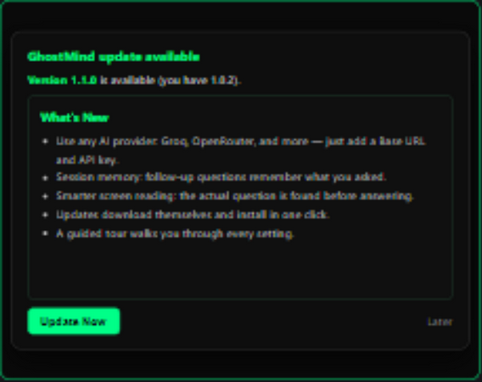
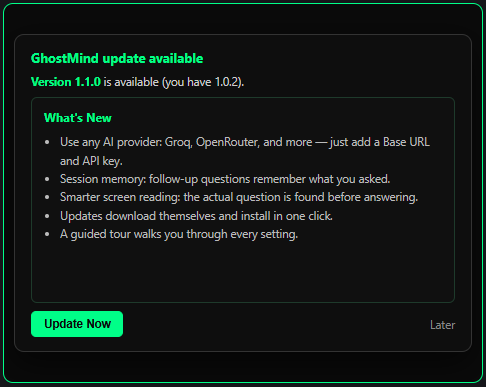
docs(readme): correct project structure tree and redraw architecture diagram in B&W

Changed region(s): [[0.0, 0.0, 1.0, 1.0], [0.0622, 0.288, 0.9025, 0.6335], [0.8714, 0.8351, 0.9336, 0.8639]]

diff --git a/README.md b/README.md
@@ -66,28 +66,26 @@ or install. Uninstalling keeps your settings and keys
 |---|---|
 | **Requirements**: Windows 10/11 (64-bit) · an API key from any OpenAI-compatible provider · internet for AI answers · ~250 MB disk space. **Nothing else** - the OCR engine ships inside the installer. | |
 
-### Guided tour
+### Guided Tour
 
-The first launch starts a **step-by-step tour** with a spotlight: each banner
-highlights one control, and only that control is clickable while the rest of
-the app dims. It covers the home screen, every settings tab (the API tab gets
-the deepest coverage), and the home-screen features - finishing with a
-**Done** button on the last step. The first run cannot be skipped, so nobody
-accidentally misses it - and it is replayed anytime from
-**Settings → About → Replay tutorial**.
+The first launch starts a **step-by-step tour** with a spotlight: each banner highlights one control, and only that control is clickable while the rest of the app dims. It covers the home screen, every settings tab (the API tab gets the deepest coverage), and the home-screen features - finishing with a **Done** button on the last step.
 
 | | |
 |---|---|
-| **Availability**: the tour starts automatically on first launch and can be replayed from Settings → About at any time. | <img src="assets/docs/screenshots/tutorial.png" width="300"> |
+| The first run cannot be skipped, so nobody accidentally misses it - and it can be replayed anytime from **Settings → About → Replay tutorial**.<br><br>**Availability**: the tour starts automatically on first launch and can be replayed from Settings → About at any time. | <img src="assets/docs/screenshots/tutorial.png" width="300"> |
+
+
 
 ### Choose your AI provider
 
-GhostMind speaks the OpenAI-compatible API, so most AI services work by
-entering three things in **Settings → API**:
-
+GhostMind speaks the OpenAI-compatible API, so most AI services work by entering three things in **Settings → API**:<br><br>
 1. **Base URL** - your provider's API address
 2. **API key** - stored securely in Windows Credential Manager, one slot per provider
-3. **Check Available Model** - verifies your credentials and lists the models your key can use; pick one or type any model ID
+3. **Check Available Model** - verifies your credentials and lists the models your key can use; pick one or type any model ID.
+
+<p align="center">
+  <img src="assets/docs/screenshots/settings-api-1.jpg" width="482" alt="Setting API Tab"> 
+</p>
 
 | Provider | Base URL | Notes |
 |---|---|---|
@@ -103,7 +101,9 @@ unreachable host, out of credit, or an unknown model - never a generic error.
 
 | | |
 |---|---|
-| ⚡ **Scan** (or `Ctrl+Shift+S`): reads the screen, isolates the actual question from page noise, and answers it.<br><br>**Ask box** (or `Ctrl+Shift+Q`): type any question and press Enter - no scanning needed.<br><br>Questions **queue up**: ask several in a row and each gets its own answer, in order.<br><br>**Session memory**: follow-ups remember what you already asked. **Clear** (`Ctrl+Shift+C`) wipes the answers and the memory; closing the app wipes everything. | <img src="assets/docs/screenshots/overlay-home.jpg" width="300"> |
+| ⚡ **Scan** (or `Ctrl+Shift+S`): reads the screen, isolates the actual question from page noise, and answers it.<br><br>**Ask box** (or `Ctrl+Shift+Q`): type any question and press Enter - no scanning needed.<br><br>Questions **queue up**: ask several in a row and each gets its own answer, in order.<br><br> | <img src="assets/docs/screenshots/overlay-home.jpg" width="300"> |
+
+**Session memory**: follow-ups remember what you already asked. **Clear** (`Ctrl+Shift+C`) wipes the answers and the memory; closing the app wipes everything.
 
 Global hotkeys (all remappable in **Settings → Shortcuts**):
 
@@ -122,13 +122,13 @@ banner and the tray menu always remain to switch it back off.
 
 | | |
 |---|---|
-| **Settings → Feedback** (or tray → **Send feedback…**): pick what it is, rate the app, add details, and send.<br><br>It is anonymous and scrubbed with the same rules as error reports - with an optional email only if you want a reply.<br><br>If anonymous reporting is disabled, the tab hands you copy-ready text for a GitHub issue instead. | <img src="assets/docs/screenshots/feedback.png" width="300"> |
+| **Settings → Feedback** (or tray → **Send feedback…**): pick what it is, rate the app, add details, and send.<br><br>It is anonymous and scrubbed with the same rules as error reports - with an optional email only if you want a reply.<br><br>If anonymous reporting is disabled, the tab hands you copy-ready text for a GitHub issue instead. | <img src="assets/docs/screenshots/feedback.jpg" width="300"> |
 
 ### Updates
 
 | | |
 |---|---|
-| A small **banner** appears inside the app when a new version exists - *What's New* shows plain-language bullets, never markdown soup.<br><br>Once you have been notified, the new installer **downloads itself in the background** into the app's own data folder, SHA-256 verified - then the banner becomes **Restart & install**: one click.<br><br>A 5-day grace period with snoozes keeps you in control; a machine that is fully offline is never locked out. | <img src="assets/docs/screenshots/update-ready.png" width="300"><br><img src="assets/docs/screenshots/whatsnew.png" width="300"> |
+| A small **banner** appears inside the app when a new version exists - *What's New* shows plain-language bullets, never markdown soup.<br><br>Once you have been notified, the new installer **downloads itself in the background** into the app's own data folder, SHA-256 verified - then the banner becomes **Restart & install**: one click.<br><br>A 5-day grace period with snoozes keeps you in control; a machine that is fully offline is never locked out. | <img src="assets/docs/screenshots/whatsnew.png" width="300"> |
 
 QA/testing hooks (dev only): `GHOSTMIND_UPDATE_URL`, `GHOSTMIND_FORCE_UPDATE=1`,
 `GHOSTMIND_GRACE_DAYS=0`, `GHOSTMIND_TESSERACT_DIR`.
@@ -182,7 +182,7 @@ Optional fonts: place **JetBrains Mono**, **Inter**, or **DM Sans** under
 The application is a PyQt6 overlay with a provider-agnostic AI core:
 
 <p align="center">
-  <img src="assets/docs/architecture.png" alt="GhostMind architecture — interface, application core, platform services" width="100%">
+  <img src="assets/docs/architecture.jpg" alt="GhostMind architecture — interface, application core, platform services" width="100%">
 </p>
 
 **Interface** (`ui/`): the overlay window, answer panel with its question
@@ -198,6 +198,7 @@ Windows Credential Manager, the bundled OCR engine, and the installer.
 ```text
 GhostMind/
 ├── main.py                 # Entry point, controller, tray, logging, updates, feedback, tour
+├── version.py              # Single source of truth for the app version
 ├── core/
 │   ├── ai_engine.py        # Provider-agnostic streaming + prompt routing (temperature 0 + seed)
 │   ├── screen_reader.py    # Multi-monitor capture + OCR (+ bundled-OCR resolution)
@@ -230,15 +231,26 @@ GhostMind/
 ├── assets/
 │   ├── icon_src.svg        # Icon design source
 │   ├── icon.ico            # Window/tray/exe icon (multi-size)
+│   ├── icon_256.png        # Tray icon asset
 │   ├── docs/               # README banner, screenshots, architecture
-│   └── installer/          # Wizard side art + OCR notice
+│   ├── installer/          # Wizard side art + OCR notice
+│   └── fonts/              # Optional custom fonts
 ├── installer/
 │   └── ghostmind.iss       # Branded Inno Setup script (+ bundled OCR)
 ├── scripts/
-│   └── generate_icons.py   # SVG → icons/wizard art (dev tool)
-├── ghostmind.spec          # PyInstaller build spec
-├── .github/workflows/      # CI + release automation
-└── requirements.txt
+│   ├── generate_icons.py   # SVG → icons/wizard art (dev tool)
+│   └── visual_check.py     # Offscreen UI smoke + screenshots (dev tool)
+├── .github/
+│   ├── workflows/          # CI + release automation
+│   └── dependabot.yml      # Weekly dependency + action updates
+├── pyproject.toml          # Ruff lint configuration
+├── requirements.txt        # Runtime dependencies
+├── requirements-dev.txt    # Development dependencies (ruff, pytest)
+├── LICENSE                 # MIT
+├── SECURITY.md             # Security policy + key-handling guidance
+├── CONTRIBUTING.md         # Contribution guide
+├── CODE_OF_CONDUCT.md      # Contributor Covenant v2.1
+└── RELEASE_NOTES.md        # Notes for the latest release
 
 Installed builds keep settings, keys' metadata, update state, the anonymous
 ID, feedback outbox, downloaded installers, and logs in
